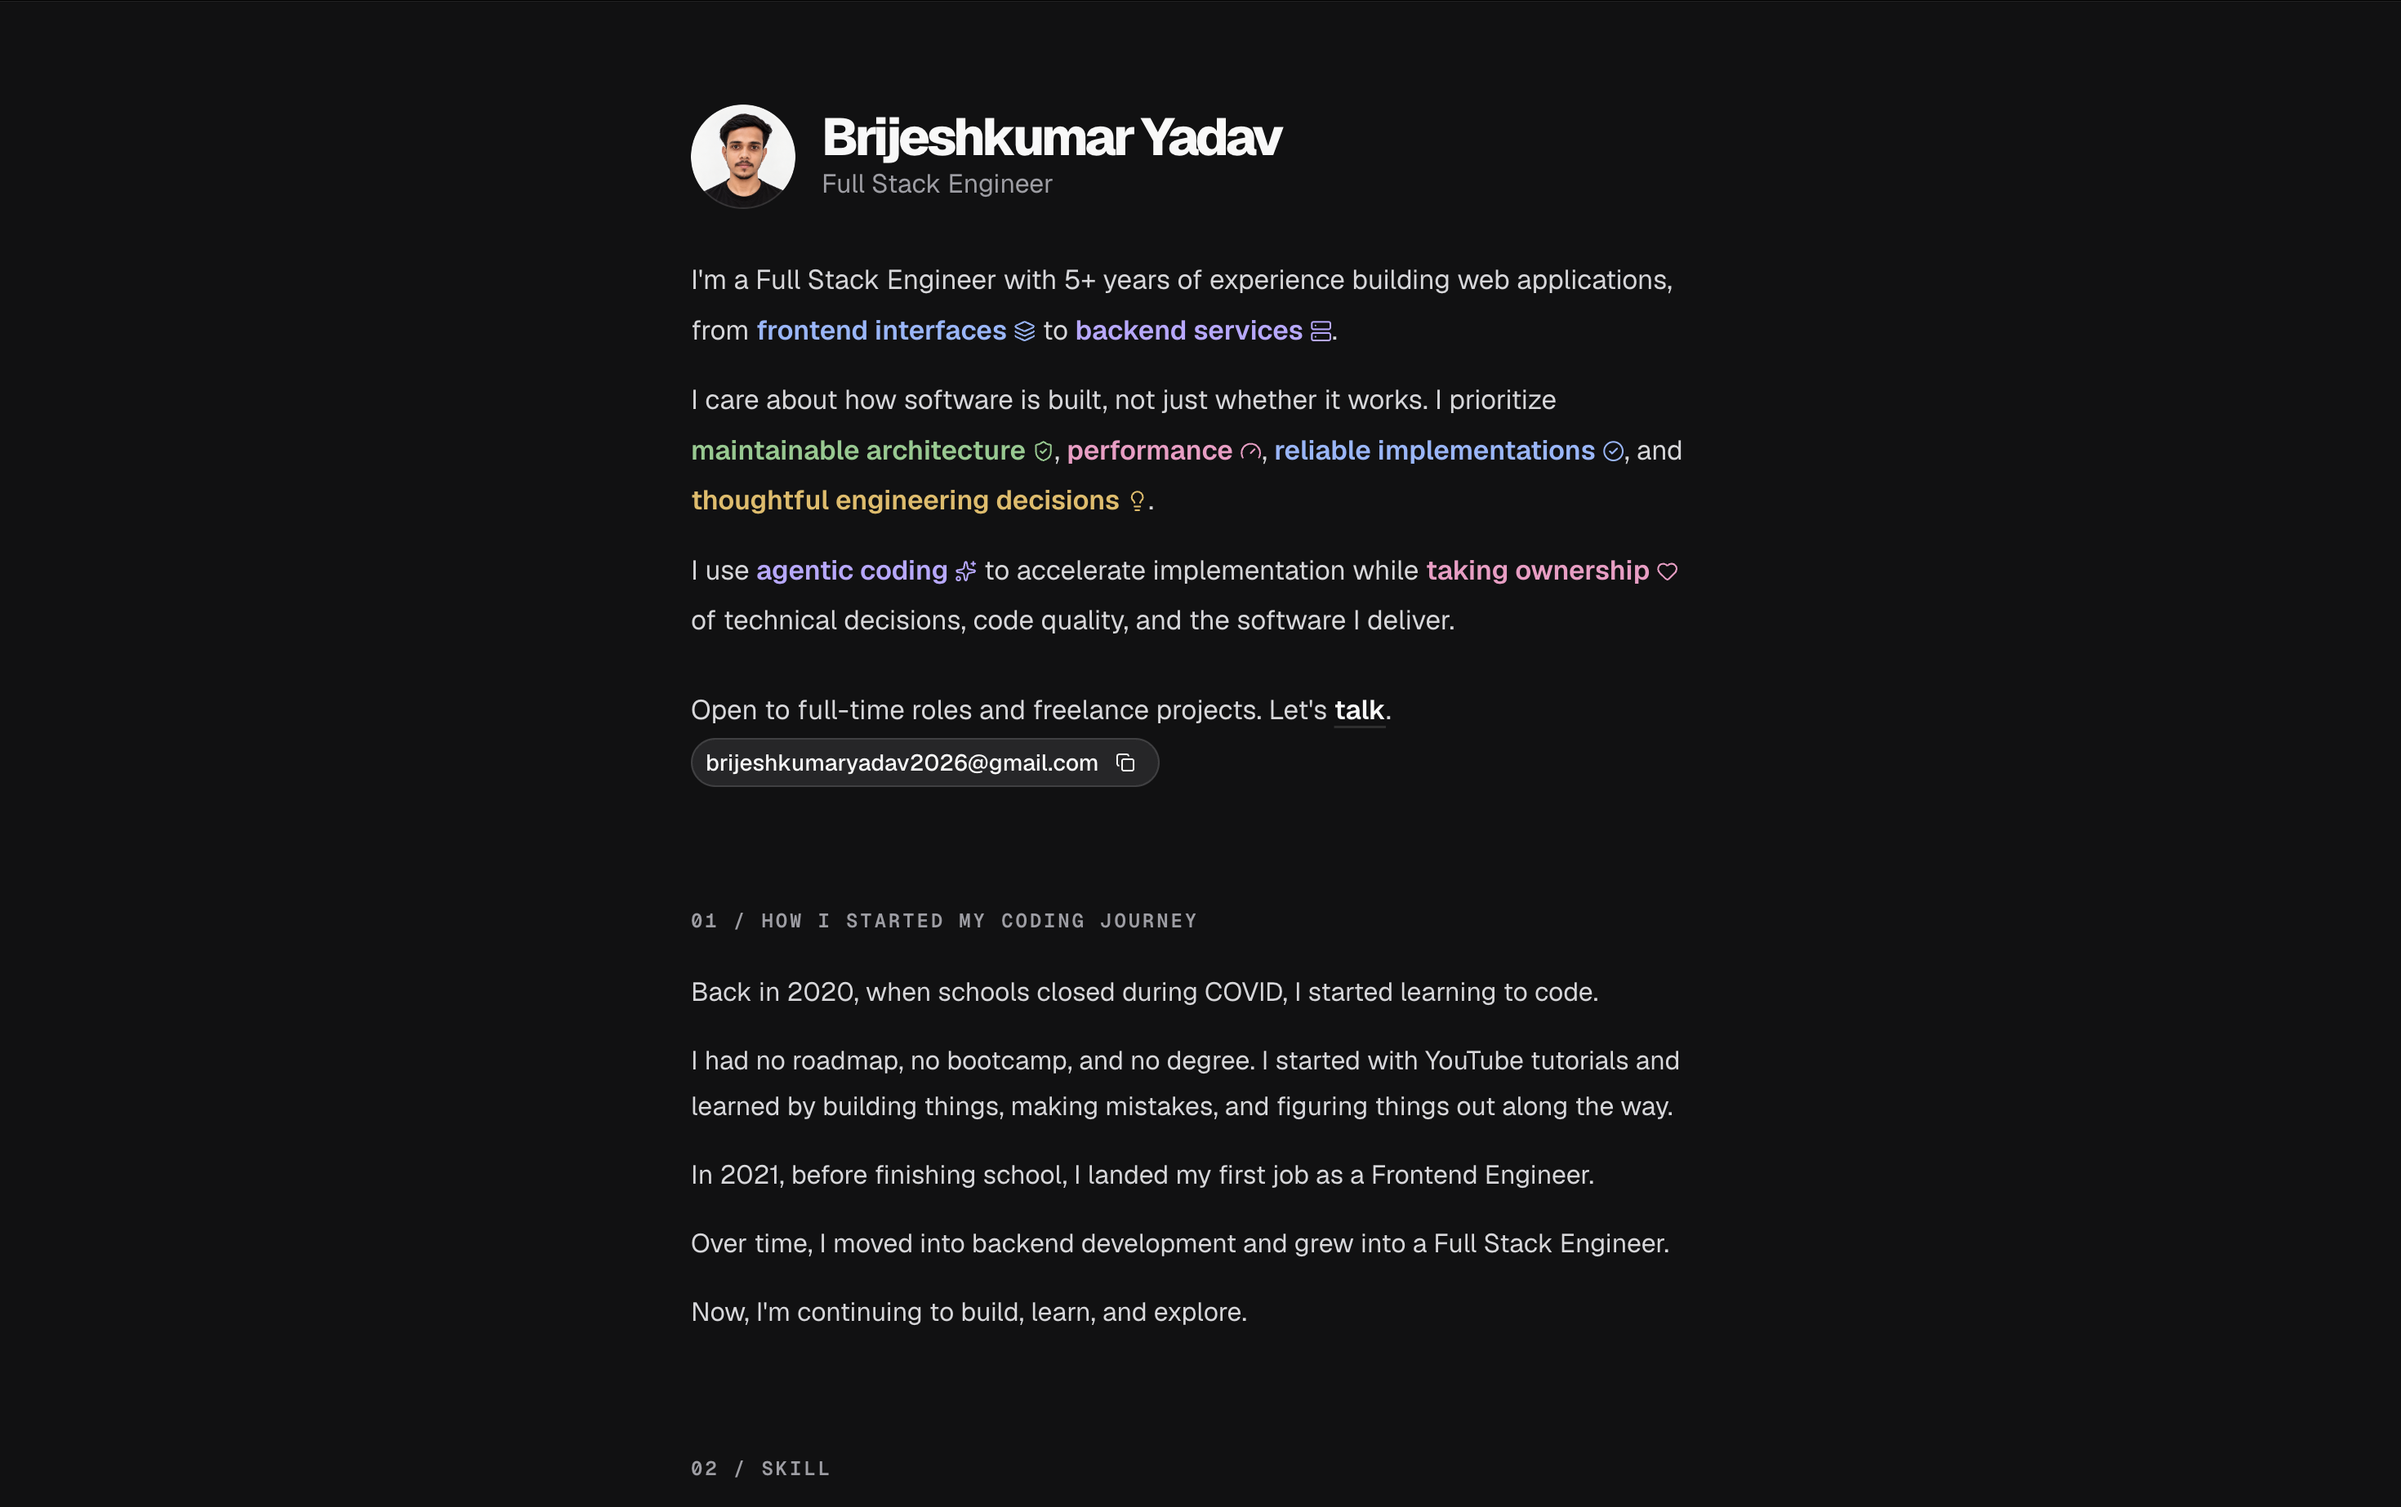
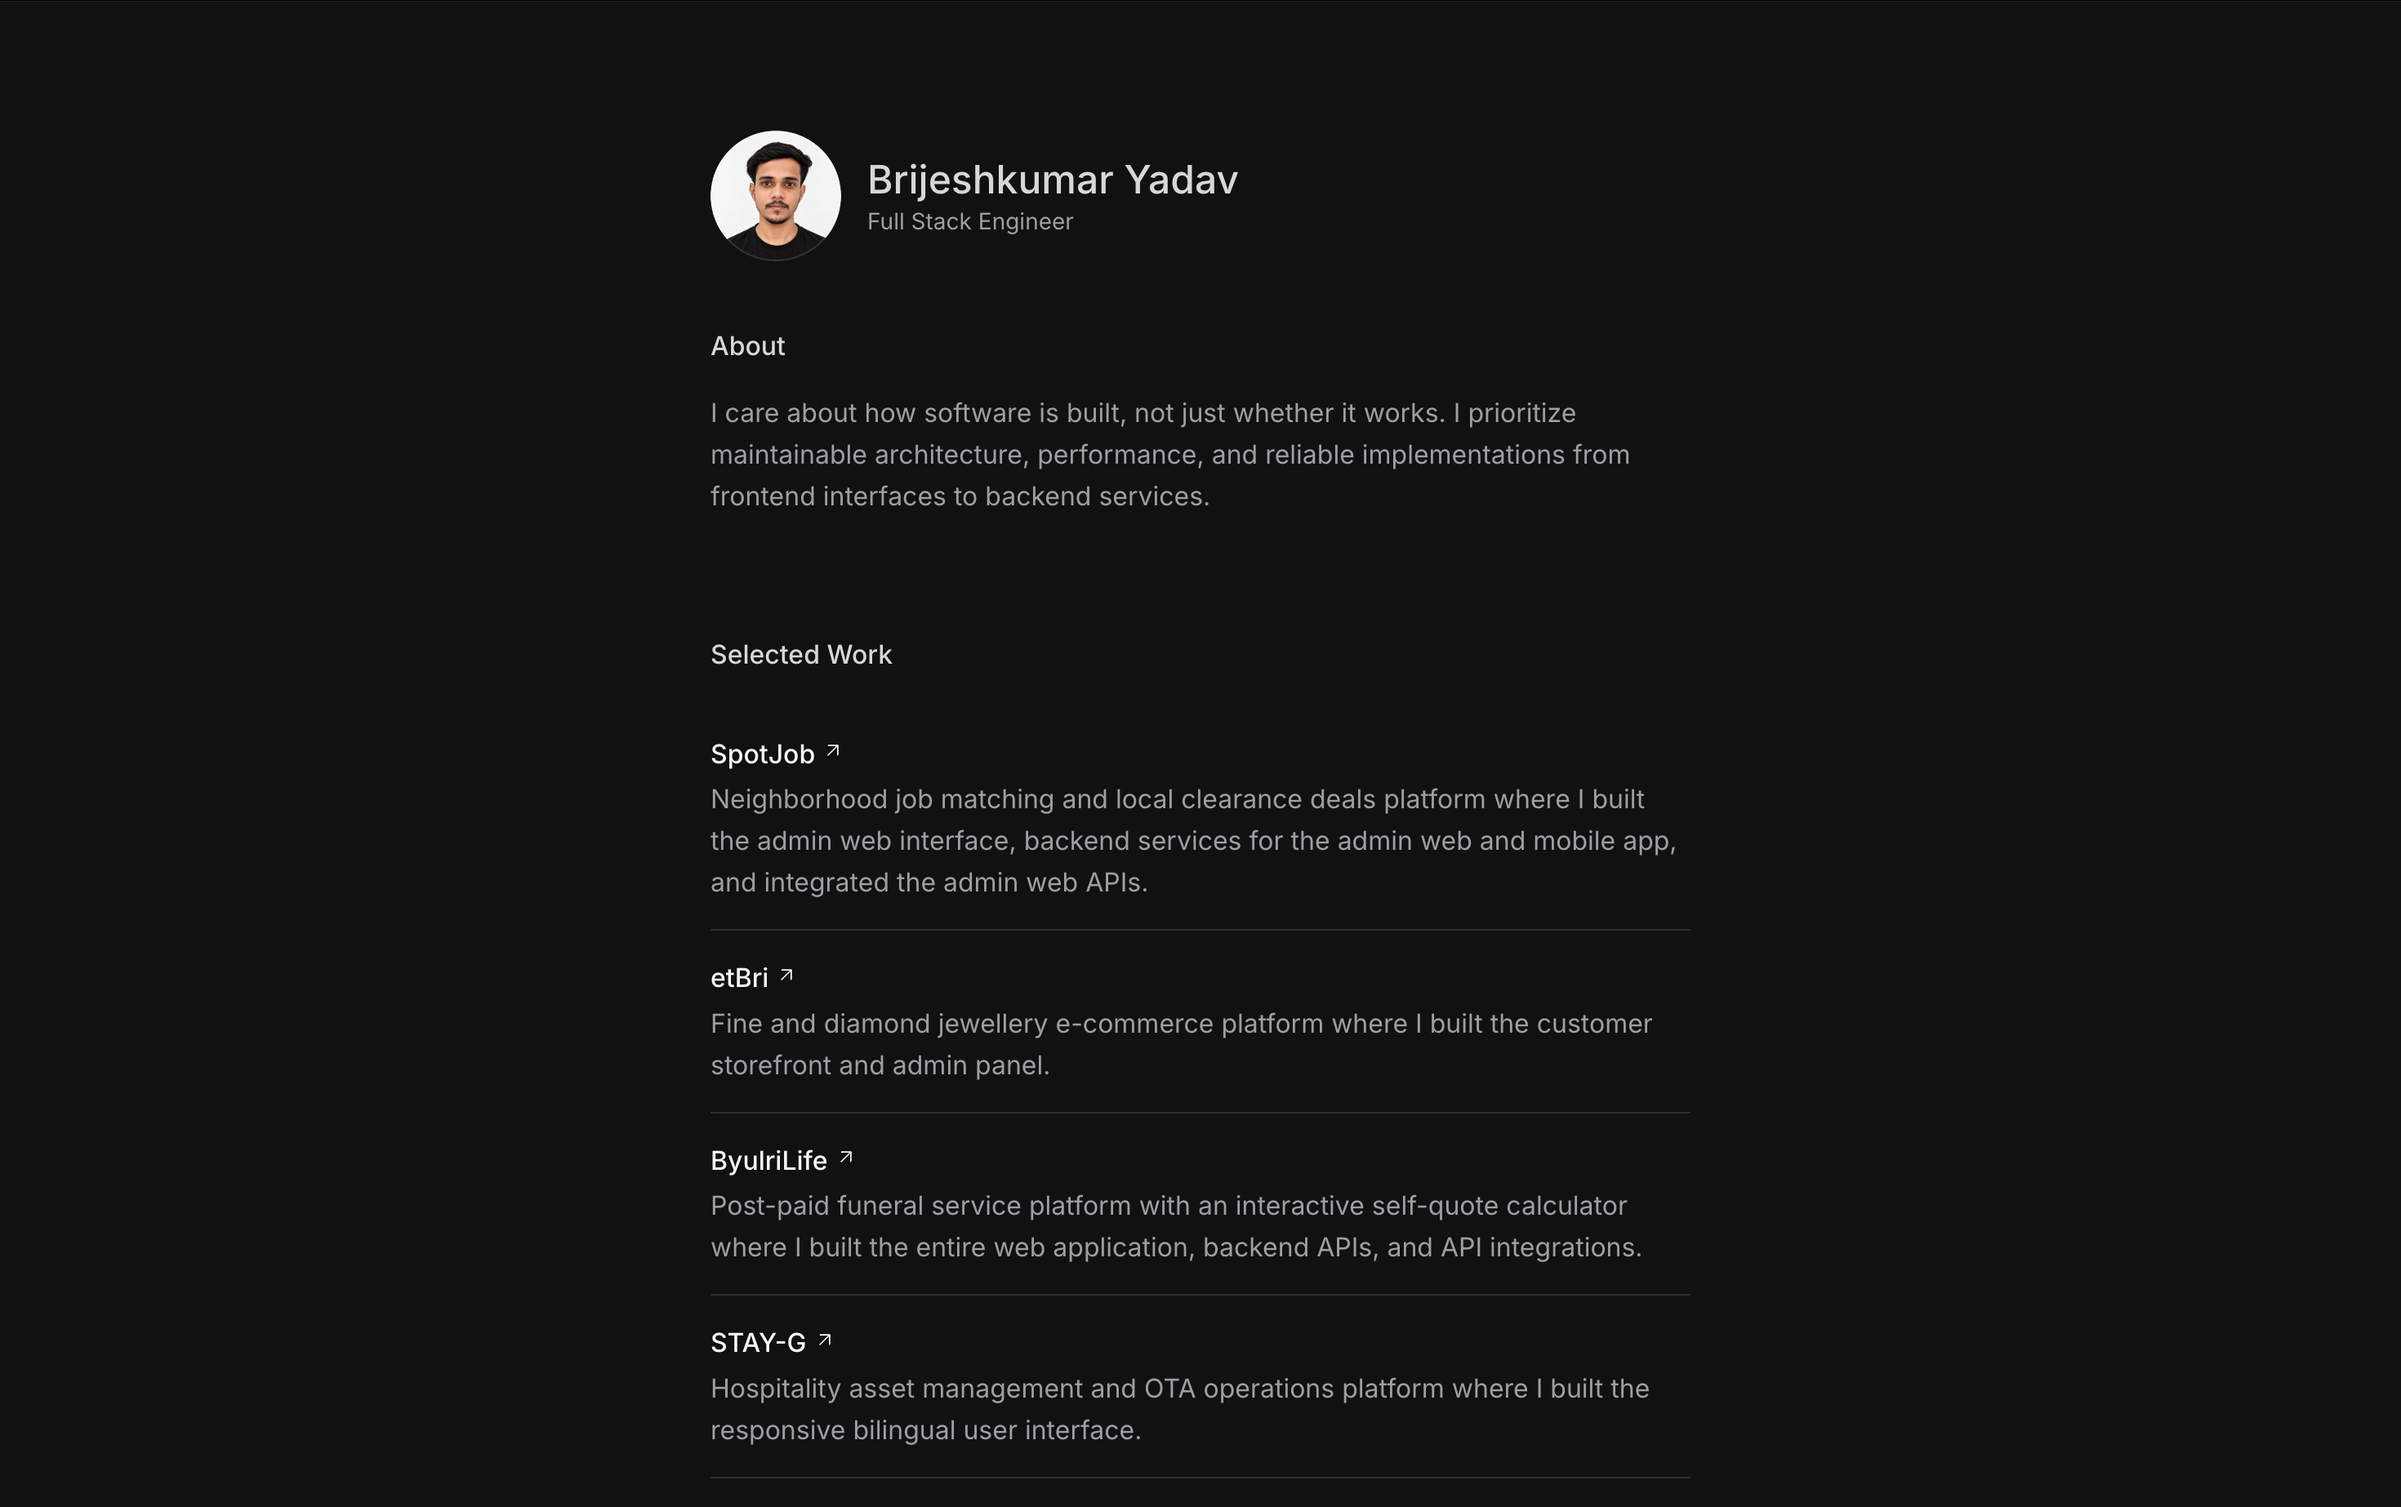
Update portfolio README and preview screenshots

diff --git a/README.md b/README.md
@@ -5,7 +5,7 @@
 
 # Brijeshkumar Yadav — Portfolio
 
-My personal portfolio website.
+Portfolio website built with Next.js, React, TypeScript, Tailwind CSS, and shadcn/ui.
 
 ![Portfolio Preview – Dark](.github/screenshot-dark.png#gh-dark-mode-only)
 ![Portfolio Preview – Light](.github/screenshot-light.png#gh-light-mode-only)
@@ -14,7 +14,7 @@ My personal portfolio website.
 
 Next.js, React, TypeScript, Tailwind CSS, and shadcn/ui.
 
-## Run locally
+## How to run locally
 
 ```bash
 pnpm install
@@ -22,10 +22,3 @@ pnpm dev
 ```
 
 Open [http://localhost:3000](http://localhost:3000) to view the site.
-
-## Other commands
-
-- `pnpm build` — build for production
-- `pnpm start` — run the production build
-- `pnpm lint` — check for lint issues
-- `pnpm typecheck` — check TypeScript types
